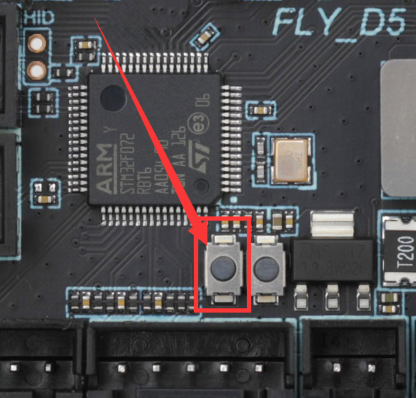
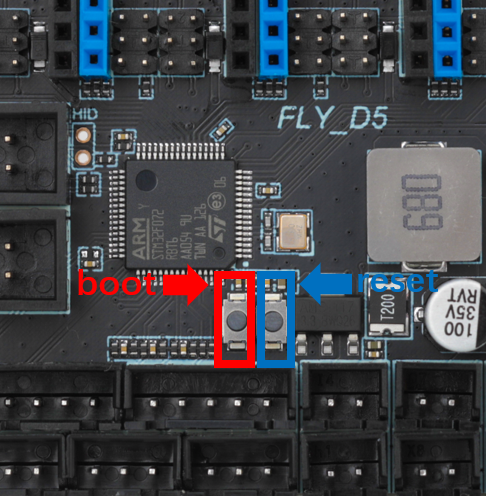
d5&d7&pi文档修复 && d5接线图更新

diff --git a/docs/board/fly_d5/klippercheck.md b/docs/board/fly_d5/klippercheck.md
@@ -1,9 +1,9 @@
-# 8. Klipper配置检查
+# 13. Klipper配置检查
 
 > [!TIP]
 > 这一步至关重要，在调试过程中错误的配置可能导致打印机的损坏！！！
 
-## 8.1 XYZ限位开关的检查
+## 13.1 XYZ限位开关的检查
 
 1. .确保X、Y、Z的限位开关都没有被按下，这里借助klipper终端控制界面来检查。点击到如图所示界面，在右下角会有限位开关的一栏，点击旁边的刷新按钮，如果X、Y、Z都显示未触发，则正确；如果其中任何一个限位开关显示触发，请检查限位开关是否被按下，检查限位开关接线和相应的配置是否正确。
 
@@ -20,7 +20,7 @@ endstop_pin: !PG12      # 修改后
 ...
 ```
 
-## 8.2 步进电机检查
+## 13.2 步进电机检查
 
 在归位前，应检查每个电机是否能够正常转动，请将打印头移动到中间，然后分别发送以下命令，并观察相应的电机是否以微小的幅度正反转动（大致只有1-2mm的移动幅度）。
 
@@ -61,7 +61,7 @@ dir_pin: !PG6         # 修改后
 
 <img src="../../images/boards/fly_super8/zmotorpng.png" alt="zmotorpng" style="zoom:80%;" />
 
-## 8.3 XY归位检查
+## 13.3 XY归位检查
 
 经过前面的测试，在确认所有步进电机都能正确工作后，就可以开始测试X和Y的归位测试了。在测试过程中，为了防止因电机方向错误导致的碰撞，可能需要使用紧急停止功能。紧急停止有以下几种方法：
 
@@ -99,7 +99,7 @@ dir_pin: !PG6         # 修改后
 ...
 ```
 
-## 8.4 Z轴归位检查
+## 13.4 Z轴归位检查
 
 执行``G28 X Y``或者在web终端控制界面上一次点击``归位X``、``归位Y``，然后利用控制台移动喷嘴的X或Y位置，直到喷嘴位于Z轴限位开关的正上方。发送``M114``命令并记录下X轴和Y轴的坐标值。打开``printer.cfg``文件，更新回原点宏``[homing_overrided]``。如下图，然后保存文件并重启klipper。
 
@@ -109,25 +109,25 @@ dir_pin: !PG6         # 修改后
 
 <img src="../../images/boards/fly_super8/homeall.png" alt="homeall" style="zoom:60%;" />
 
-## 8.5 调平传感器的配置与检查
+## 13.5 调平传感器的配置与检查
 
 首次使用热床自动调平功能之前，请确认Probe传感器工作是否正常。
 
 可以通过发送命令：QUERY_PROBE 来测试传感器。
 
-### 8.5.1 接近开关
+### 13.5.1 接近开关
 
 ***PL08N***：PL08N或者TL-Q5MC2为非接触式磁性金属传感器，当喷嘴下降时，PL08N检测面与PEI弹簧钢板的距离小于8mm时，PL08N应被触发，并且PL08N自身的触发灯应被点亮（如果是未触发时点亮，则触发时状态灯应熄灭），此时发送``QUERY_PROBE``应返回``triggered``触发。当喷嘴原理PEI弹簧钢板时，PL08自身的状态指示灯应熄灭，此时发送``QUERY_PROBE``应返回``open``断开。如果需要反转信号，请在probe传感器引脚定义前增加或者删除 ``!``
 
-### 8.5.2 Klicky
+### 13.5.2 Klicky
 
 Klicky的配置教程，请自行前往哔哩哔哩查找教程
 
-### 8.5.3 Voron Tap
+### 13.5.3 Voron Tap
 
 Voron Tap的配置教程可以查看：[Voron Tap的配置](https://www.bilibili.com/video/BV1UD4y1L7jX?vd_source=8a1517dea7f810886a480f8c9f0fd417 "点击即可跳转")
 
-### 8.5.4 调平传感器的精度检查
+### 13.5.4 调平传感器的精度检查
 
 首次测试probe传感器，不需要加热喷头和热床，所有轴全部归位后将打印头移到热床的中心，然后发送命令：``PROBE_ACCURACY``
 

diff --git a/docs/board/fly_dp5/flash.md b/docs/board/fly_dp5/flash.md
@@ -133,7 +133,7 @@
 >
 >方法二：使用TypeC线连接到上位机后，按住Boot，再按下reset按键，松开reset按键，最后松开Boot按键
 
-<img src="../../images/boards/fly_d7/boot.png" alt="boot" style="zoom:80%;" />
+<img src="../../images/boards/fly_dp5/boot.png" alt="boot" style="zoom:90%;" />
 
 
 
@@ -182,7 +182,7 @@ cd ~/klipper && make flash FLASH_DEVICE=0483:df11
 1. 下载烧录工具：[STM32CubeProgrammer](https://cdn.mellow.klipper.cn/Utils/STM32CubeProgrammer.zip '点击即可下载')
 2. 解压烧录工具到任意目录，进入`STM32CubeProgrammer/bin`目录，双击打开`STM32CubeProgrammer.exe`
 3. 将前面编译好的固件(klipper.bin)复制到电脑任意目录
-4. 使用Type-C数据线将DP5主板连接到电脑，请确保连接前已安装短接跳线
+4. 使用Type-C数据线将DP5主板连接到电脑，请确认已经进入[烧录模式](/board/fly_dp5/flash?id=_2-进入烧录模式 "点击即可跳转")
 5. STM32CubeProgrammer中选择USB模式，并刷新，连接
 
 ![2](../../images/boards/fly_sht36_42/2.png ":no-zooom")

diff --git a/docs/board/fly_d5/flash.md b/docs/board/fly_d5/flash.md
@@ -133,7 +133,7 @@
 >
 >方法二：使用TypeC线连接到上位机后，按住Boot，再按下reset按键，松开reset按键，最后松开Boot按键
 
-<img src="../../images/boards/fly_d7/boot.png" alt="boot" style="zoom:80%;" />
+<img src="../../images/boards/fly_d5/boot.png" alt="boot" style="zoom:90%;" />
 
 
 
@@ -182,7 +182,7 @@ cd ~/klipper && make flash FLASH_DEVICE=0483:df11
 1. 下载烧录工具：[STM32CubeProgrammer](https://cdn.mellow.klipper.cn/Utils/STM32CubeProgrammer.zip '点击即可下载')
 2. 解压烧录工具到任意目录，进入`STM32CubeProgrammer/bin`目录，双击打开`STM32CubeProgrammer.exe`
 3. 将前面编译好的固件(klipper.bin)复制到电脑任意目录
-4. 使用Type-C数据线将D5主板连接到电脑，请确保连接前已安装短接跳线
+4. 使用Type-C数据线将D5主板连接到电脑，请确保已经进入[烧录模式](/board/fly_d5/flash?id=_2-进入烧录模式 "点击即可跳转")
 5. STM32CubeProgrammer中选择USB模式，并刷新，连接
 
 ![2](../../images/boards/fly_sht36_42/2.png ":no-zooom")

diff --git a/docs/board/fly_d5/_sidebar.md b/docs/board/fly_d5/_sidebar.md
@@ -10,11 +10,12 @@
     * **进阶**
     * [7. 使用加速度计](/board/fly_d5/adxl345.md)
     * [8. 桥接CAN](/board/fly_d5/canbridge.md)
-    * [9. 原理图](/board/fly_d5/schematic.md)
-    * [10. 三维模型](/board/fly_d5/3dmodel.md) 
+    * [9. 愤怒的兔子V2接线](/board/fly_d5/d5_ercf2_wiring.md)
+    * [10. 原理图](/board/fly_d5/schematic.md)
+    * [11. 三维模型](/board/fly_d5/3dmodel.md) 
     * **调试**
-    * [11. Klipper常见错误](/board/fly_d5/klippererro.md)
-    * [12. Klipper配置检查](/board/fly_d5/klippercheck.md)
-    * [13. 打印前的准备](/board/fly_d5/Super8prepare.md)
+    * [12. Klipper常见错误](/board/fly_d5/klippererro.md)
+    * [13. Klipper配置检查](/board/fly_d5/klippercheck.md)
+    * [14. 打印前的准备](/board/fly_d5/Super8prepare.md)
     * **扩展**
-    * [14. 固件更新](/board/fly_d5/katapult.md)
+    * [15. 固件更新](/board/fly_d5/katapult.md)

diff --git a/docs/board/fly_d7/flash.md b/docs/board/fly_d7/flash.md
@@ -182,7 +182,7 @@ cd ~/klipper && make flash FLASH_DEVICE=0483:df11
 1. 下载烧录工具：[STM32CubeProgrammer](https://cdn.mellow.klipper.cn/Utils/STM32CubeProgrammer.zip '点击即可下载')
 2. 解压烧录工具到任意目录，进入`STM32CubeProgrammer/bin`目录，双击打开`STM32CubeProgrammer.exe`
 3. 将前面编译好的固件(klipper.bin)复制到电脑任意目录
-4. 使用Type-C数据线将D7主板连接到电脑，请确保连接前已安装短接跳线
+4. 使用Type-C数据线将D7主板连接到电脑，请确保已经进入[烧录模式](/board/fly_d7/flash?id=_2-进入烧录模式 "点击即可跳转")
 5. STM32CubeProgrammer中选择USB模式，并刷新，连接
 
 ![2](../../images/boards/fly_sht36_42/2.png ":no-zooom")

diff --git a/docs/board/fly_pi/adxl345.md b/docs/board/fly_pi/adxl345.md
@@ -1,0 +1,28 @@
+# 14. 连接加速度计
+
+## 1. 接线
+
+加速度计的链接方式如下图所示
+
+**接线图制作中，敬请期待**
+
+## 2. 配置
+
+```cfg
+[mcu host]
+serial: /tmp/klipper_host_mcu
+
+[adxl345]
+cs_pin: host:None
+spi_bus: spidev1.0
+
+[resonance_tester]
+accel_chip: adxl345
+#accel_chip_y: adxl345 bed
+probe_points:
+    100, 100, 20  # an example
+```
+
+## 3. 使用
+
+测试请前往：[加速度计的使用](/advanced/Accelerometer?id=测试 "点击即可跳转")

diff --git a/docs/board/fly_pi/_sidebar.md b/docs/board/fly_pi/_sidebar.md
@@ -14,4 +14,5 @@
 * [13. CAN Hat的使用](/board/fly_pi/canhat.md)
 * [14. 三维模型](/board/fly_pi/3dmodel.md)
 * [15. 使用I2C](/board/fly_pi/i2c.md)
+* [16. 使用加速度计](/board/fly_pi/adxl345.md)
 

diff --git a/docs/board/fly_d5/d5_ercf2_wiring.md b/docs/board/fly_d5/d5_ercf2_wiring.md
@@ -1,0 +1,7 @@
+# 10. 愤怒的兔子V2接线
+
+以愤怒的兔子V2为例
+
+![d5_ercf2](../../images/boards/fly_d5/d5_ercf2.png)
+
+
